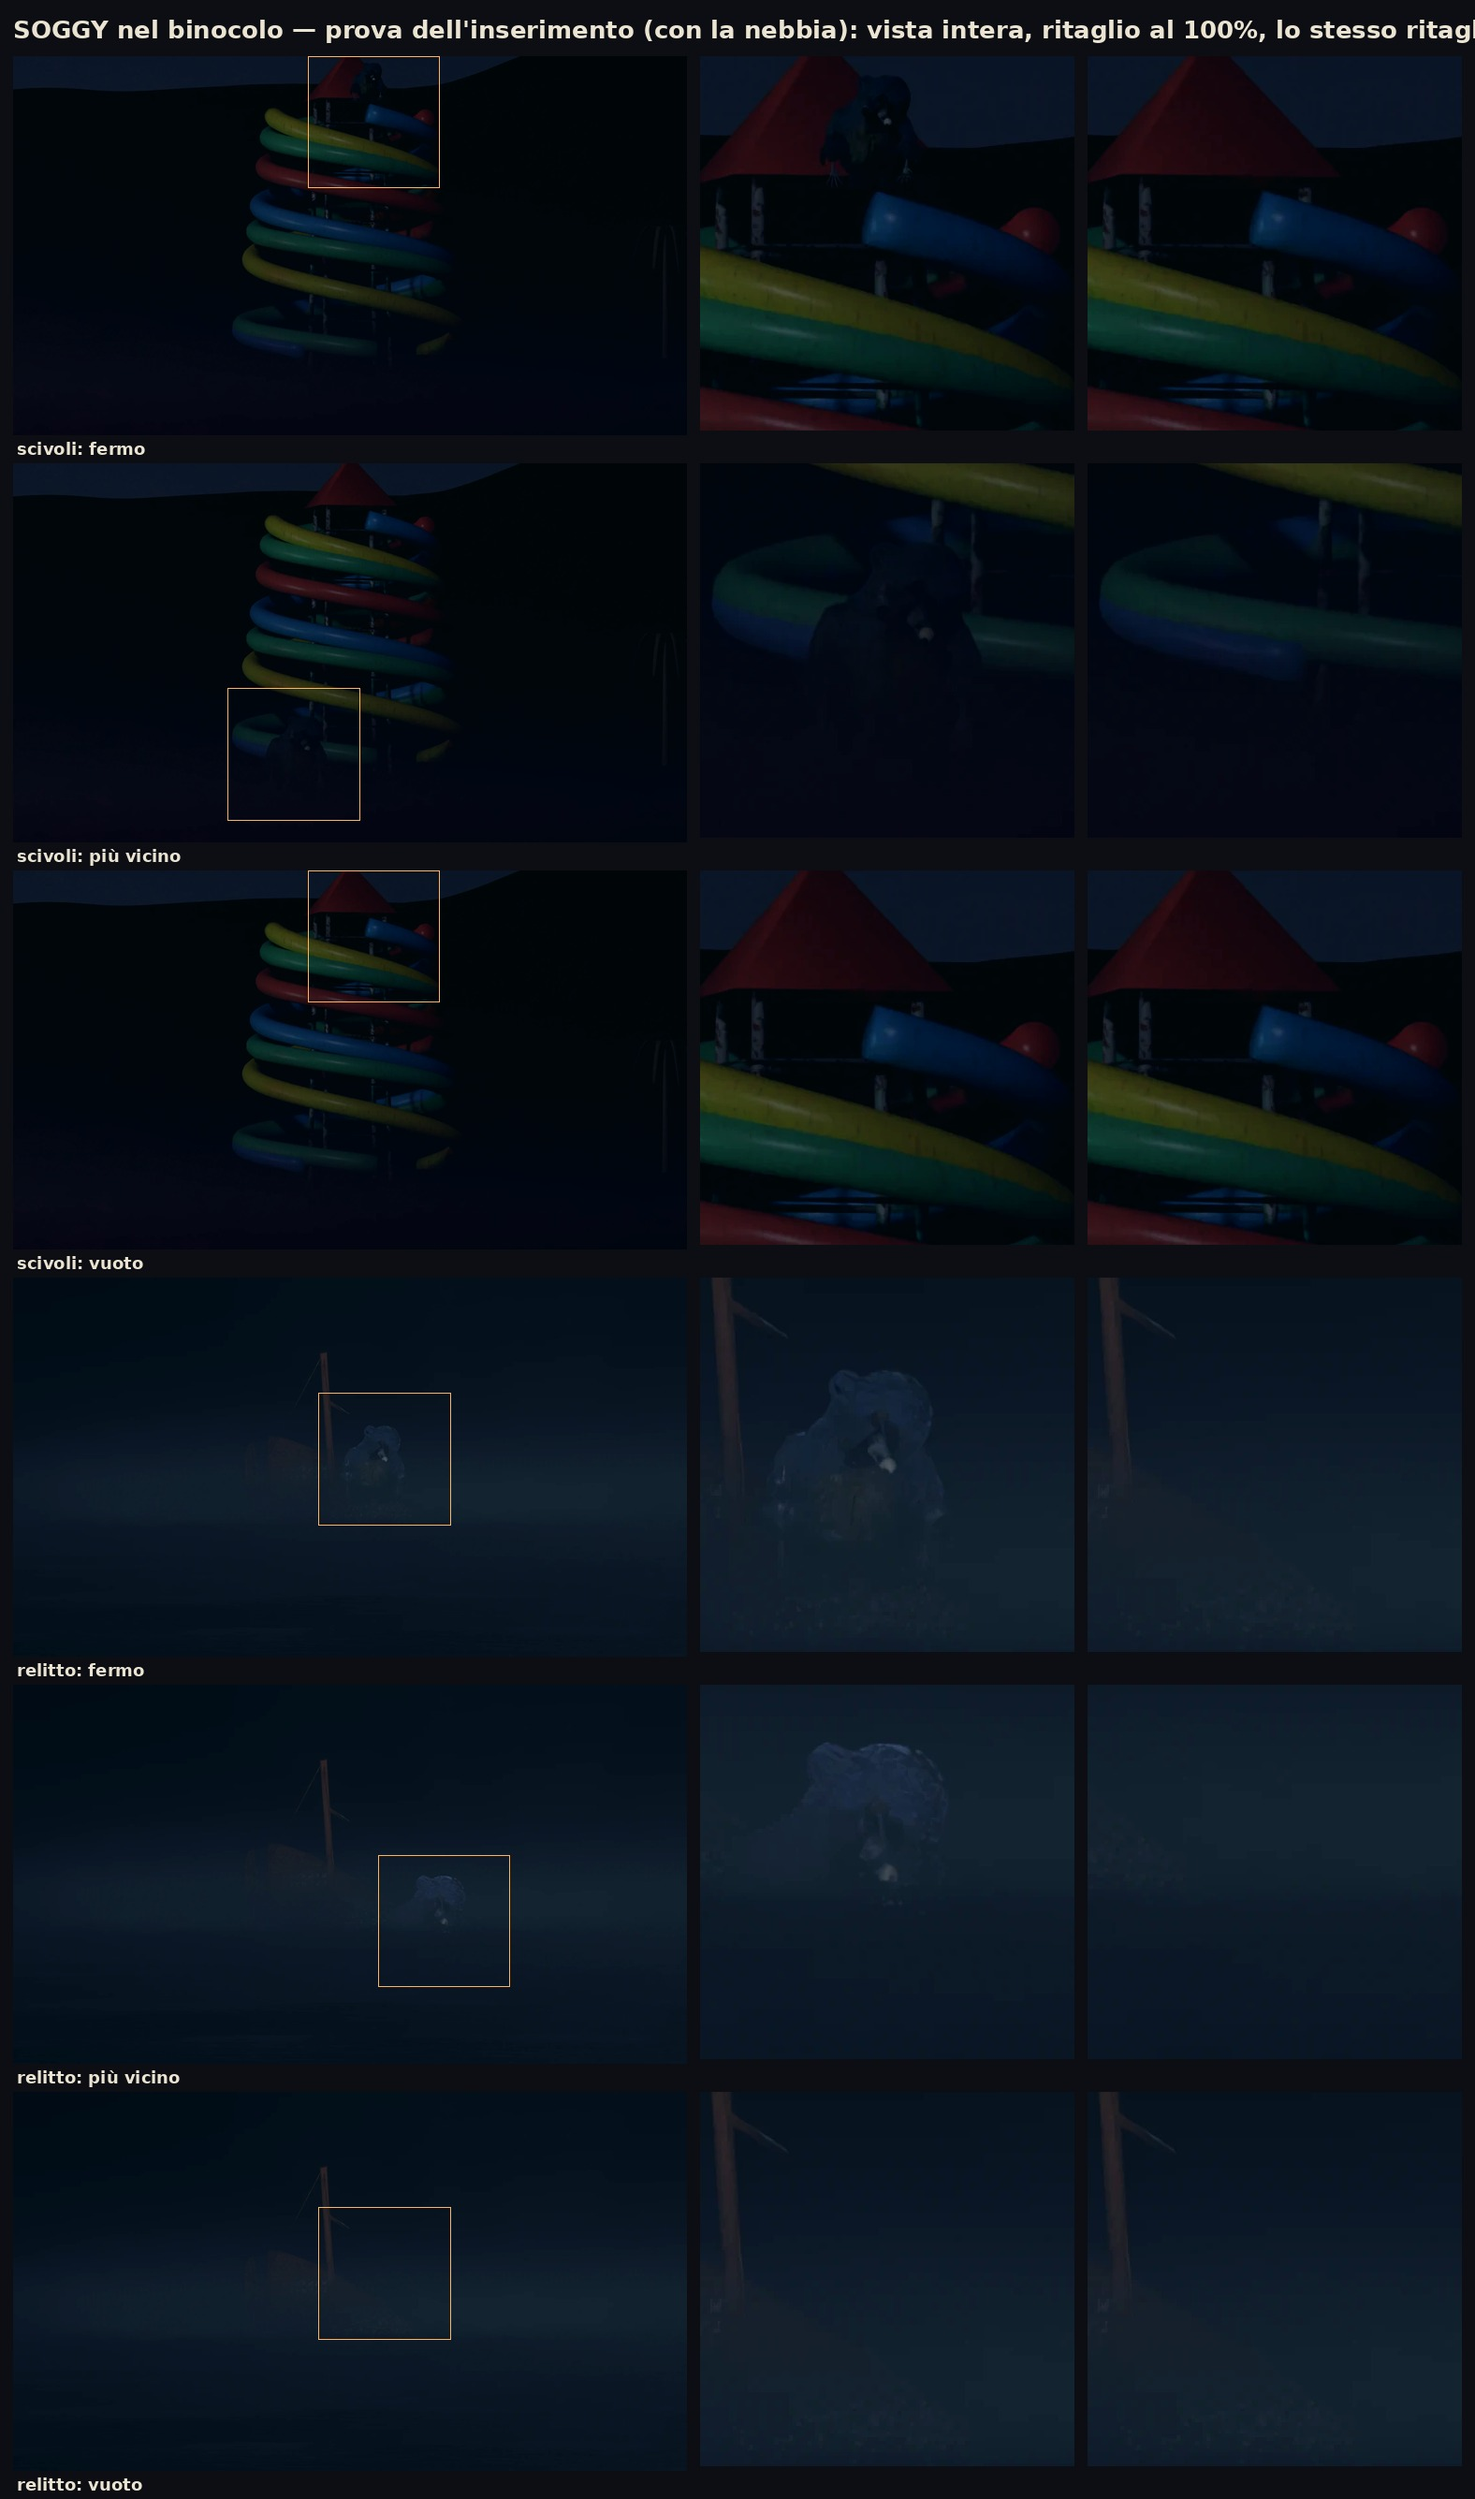
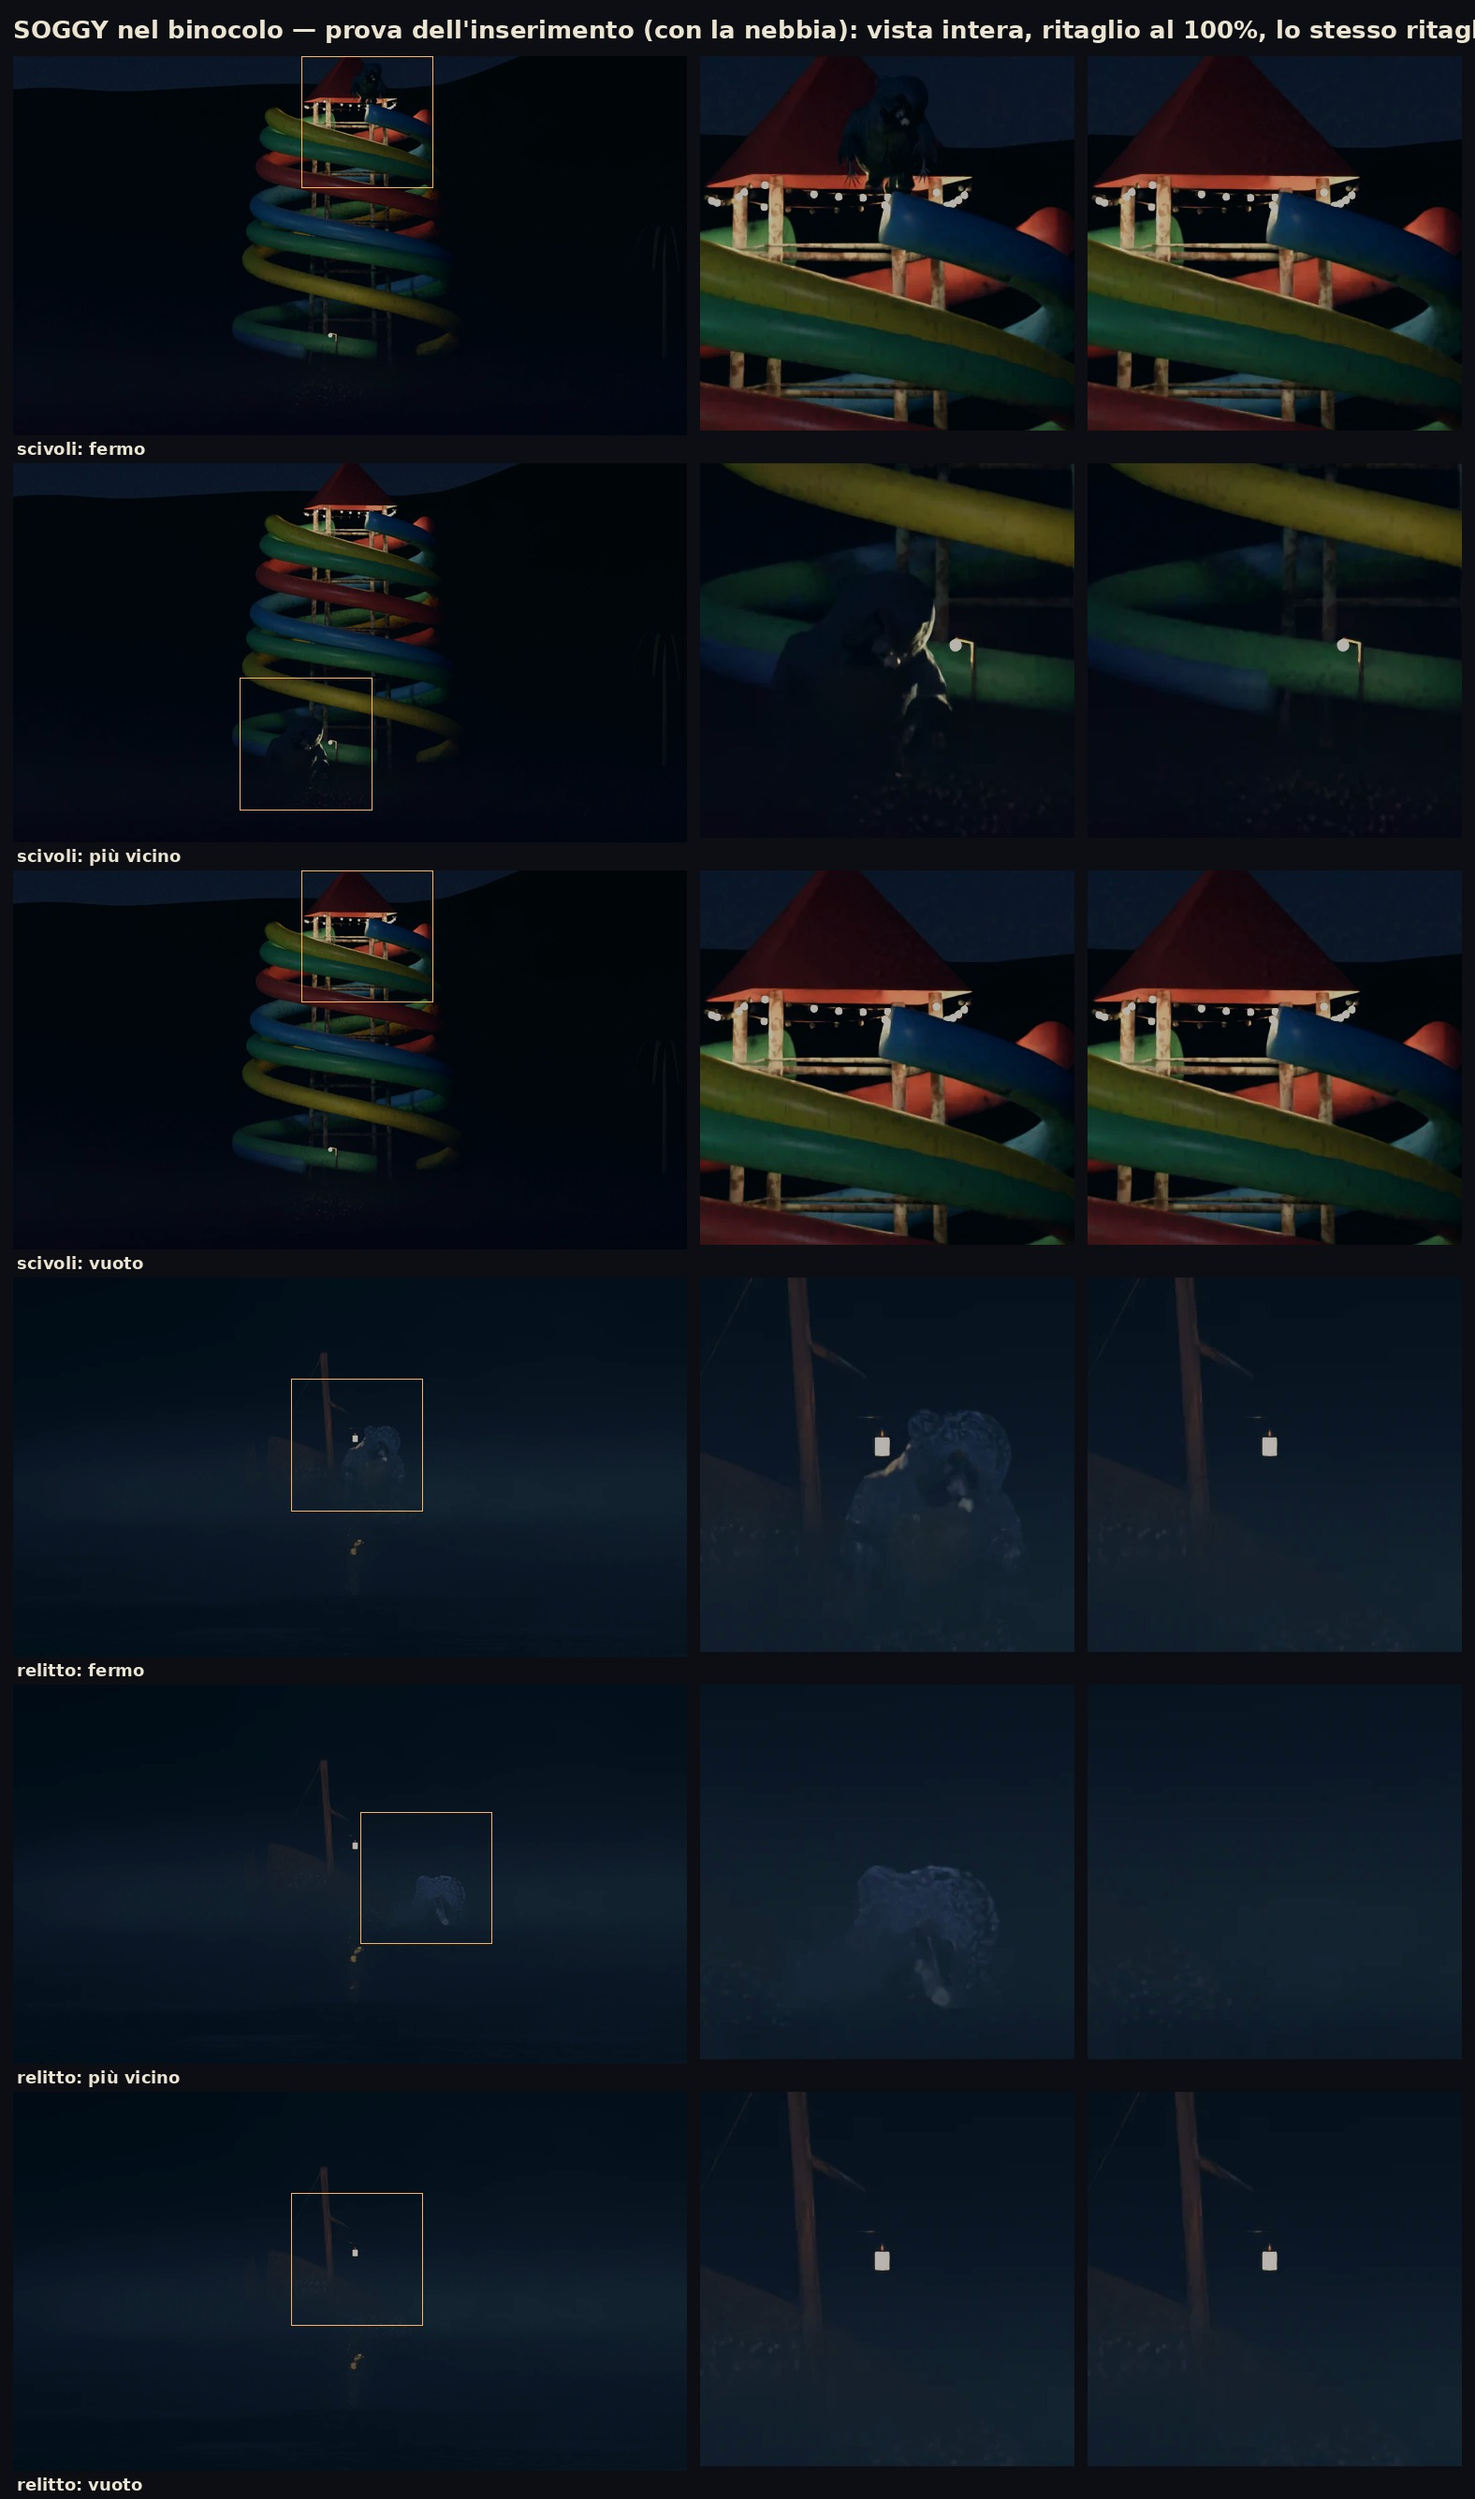
Soggy nel binocolo: le luci dei posti (un lampione acceso alla base degli scivoli, il festone di lampadine sul bordo del tetto della torre, una lanterna appesa sul relitto), anche nei vuoti; il costume blu-grigio medio. Prova con la nebbia in docs/concept/soggy_binocolo_inserimento.jpg
Claude-Session: https://claude.ai/code/session_019HFfvYRRadjqBhFodrQPYe

diff --git a/tools/render/foxy_binocolo.py b/tools/render/foxy_binocolo.py
@@ -188,6 +188,98 @@ STADI_DEF = (('foxy0', 'lontano'), ('foxy1', 'vicino'))
 SCALA = {('scivoli', 'foxy0'): 1.9, ('scivoli', 'foxy1'): 3.5, ('relitto', 'foxy0'): 2.0, ('relitto', 'foxy1'): 2.6}
 
 
+# le luci dei posti (12 ottobre): fanno parte del posto (stanno anche nel vuoto) e illuminano anche lui. Energie in watt
+LUCI = {'lampione': 650.0, 'festone': 28.0, 'lanterna': 140.0}
+
+
+def luci_posti():
+    """Un lampione del parco ancora acceso alla base degli scivoli (lampadina vecchia, calda e giallo-verde), un festone
+    di lampadine lungo il bordo del tetto della torre (alcune accese, alcune spente), una lanterna accesa appesa
+    all'albero del relitto. Restituisce le posizioni delle luci (per i bagliori del motore)."""
+    from common import set_lightgroup
+    from geo import tube
+    from landmarks import emissive, painted, point_light
+    out = {}
+    ferro = painted('LampioneFerro', (0.05, 0.05, 0.05), rust=0.6, metal=0.4)
+    # il lampione, ai piedi della torre, un po' di lato rispetto a dove si ferma lui
+    g = Vector(env.surface_at(192.85, 25.5))     # due passi alla sua destra, un po' più verso la barca
+    top = g + Vector((0, 0, 4.2))
+    pole = tube('LampionePalo', [tuple(g - Vector((0, 0, 0.3))), tuple(top), tuple(top + Vector((0.55, 0, 0.15)))], 0.07, n=8, col='env')
+    pole.data.materials.append(ferro)
+    head = top + Vector((0.55, 0, 0.05))
+    bpy.ops.mesh.primitive_uv_sphere_add(radius=0.16, location=tuple(head - Vector((0, 0, 0.12))), segments=12, ring_count=8)
+    bulb = bpy.context.object
+    bulb.name = 'LampioneLampadina'
+    bulb.data.materials.append(emissive('LampioneLuce', (1.0, 0.86, 0.42), 30.0))
+    li = point_light('LampioneLuce', tuple(head - Vector((0, 0, 0.3))), LUCI['lampione'], (1.0, 0.86, 0.45), radius=0.2)
+    for o in (pole, bulb, li):
+        set_lightgroup(o, 'ambient')
+    out['lampione'] = head - Vector((0, 0, 0.12))
+    # il festone lungo il bordo del tetto (il tetto è una piramide a base quadra larga 10 m, a 24 m sul terreno)
+    tx, ty, tz = env.surface_at(193.0, 45.0)
+    c = Vector((tx, ty, tz + 24.0 - 0.15))
+    corners = [c + Vector((5.0 * math.cos(math.pi / 4 + k * math.pi / 2), 5.0 * math.sin(math.pi / 4 + k * math.pi / 2), 0)) for k in range(4)]
+    rng = np.random.default_rng(12)
+    lampade, accese = [], []
+    for k in range(4):
+        a, b = corners[k], corners[(k + 1) % 4]
+        n = 9
+        for i in range(n):
+            t = (i + 0.5) / n
+            p = a.lerp(b, t) - Vector((0, 0, 0.45 * 4 * t * (1 - t)))      # il filo si affloscia fra gli angoli
+            lampade.append(p)
+            if rng.random() < 0.55:
+                accese.append(p)
+    for k in range(4):
+        a, b = corners[k], corners[(k + 1) % 4]
+        wire = [tuple(a.lerp(b, i / 12) - Vector((0, 0, 0.45 * 4 * (i / 12) * (1 - i / 12)))) for i in range(13)]
+        w = tube(f'FestoneFilo{k}', wire, 0.015, n=5, col='env')
+        w.data.materials.append(ferro)
+        set_lightgroup(w, 'ambient')
+    on_m = emissive('FestoneAccesa', (1.0, 0.78, 0.40), 25.0)
+    off_m = painted('FestoneSpenta', (0.20, 0.18, 0.15), rust=0.2, rough=0.3)
+    for i, p in enumerate(lampade):
+        bpy.ops.mesh.primitive_uv_sphere_add(radius=0.09, location=tuple(p - Vector((0, 0, 0.1))), segments=8, ring_count=6)
+        o = bpy.context.object
+        o.name = f'FestoneLampada{i}'
+        o.data.materials.append(on_m if p in accese else off_m)
+        set_lightgroup(o, 'ambient')
+    for i, p in enumerate(accese):
+        point_light(f'FestoneLuce{i}', tuple(p - Vector((0, 0, 0.2))), LUCI['festone'], (1.0, 0.80, 0.45), radius=0.08)
+    out['festone'] = [tuple(p) for p in accese]
+    # la lanterna appesa all'albero del relitto, sopra la tuga (chi l'ha accesa?)
+    mast = bpy.data.objects.get('WreckMast')
+    if mast:
+        bpy.context.view_layer.update()
+        pts = [mast.matrix_world @ Vector(cc) for cc in mast.bound_box]
+        base = min(pts, key=lambda v: v.z)
+        tip = max(pts, key=lambda v: v.z)
+        # appesa a un braccio di cima tesa dall'albero verso la tuga, sopra di lui
+        wt = wreck_house_top()
+        hang = base.lerp(tip, 0.55)
+        lp = hang.lerp(wt + Vector((0, 0, 2.6)), 0.6)
+        cord0 = tube('LanternaBraccio', [tuple(hang), tuple(lp + Vector((0, 0, 0.5)))], 0.012, n=4, col='env')
+        cord0.data.materials.append(ferro)
+        set_lightgroup(cord0, 'ambient')
+        hang = lp + Vector((0, 0, 0.5))
+        cord = tube('LanternaCorda', [tuple(hang), tuple(lp + Vector((0, 0, 0.18)))], 0.01, n=4, col='env')
+        cord.data.materials.append(ferro)
+        bpy.ops.mesh.primitive_cylinder_add(radius=0.11, depth=0.28, location=tuple(lp), vertices=10)
+        lan = bpy.context.object
+        lan.name = 'LanternaVetro'
+        lan.data.materials.append(emissive('LanternaLuce', (1.0, 0.62, 0.28), 18.0))
+        li = point_light('LanternaLuce', tuple(lp), LUCI['lanterna'], (1.0, 0.62, 0.30), radius=0.1)
+        for o in (cord, lan, li):
+            set_lightgroup(o, 'ambient')
+        out['lanterna'] = lp
+    for k, v in out.items():
+        if isinstance(v, Vector):
+            d = v - Vector(EYE)
+            print(f'luce {k}: xyz {tuple(round(x, 2) for x in v)}  dall\'occhio: giro {math.degrees(math.atan2(d.x, d.y)):.2f}°, '
+                  f'alzo {math.degrees(math.atan2(d.z, math.hypot(d.x, d.y))):.3f}°, {d.length:.0f} m', flush=True)
+    return out
+
+
 def water_ring(pos, k):
     """L'acqua attorno a chi sta in acqua fino alla vita: un anello basso d'increspature lucide e uno stretto di schiuma."""
     import sdf
@@ -294,10 +386,13 @@ def definitivo():
         fl = bpy.data.objects.get(f'MarinaFlood{k}')
         if fl:
             fl.data.energy *= 0.3
+    luci = luci_posti()
+    json.dump({k: ([list(map(float, p)) for p in v] if isinstance(v, list) else list(map(float, v))) for k, v in luci.items()},
+              open(os.path.join(out_dir, 'luci_posti.json'), 'w'), indent=1)
     sp = spots()
     before = set(bpy.data.objects)
     # il costume da lontano: fradicio e marcio, blu scuro e spento, grigiastro (la faccia resta pallida)
-    animatore.build('riposo', plush_name='PlushBino', plush_base=(0.065, 0.090, 0.150), soak=1.5)
+    animatore.build('riposo', plush_name='PlushBino', plush_base=(0.090, 0.120, 0.180), soak=1.5)
     fig = [o for o in bpy.data.objects if o not in before and o.type == 'MESH']
     for o in fig:
         set_lightgroup(o, 'ambient')
